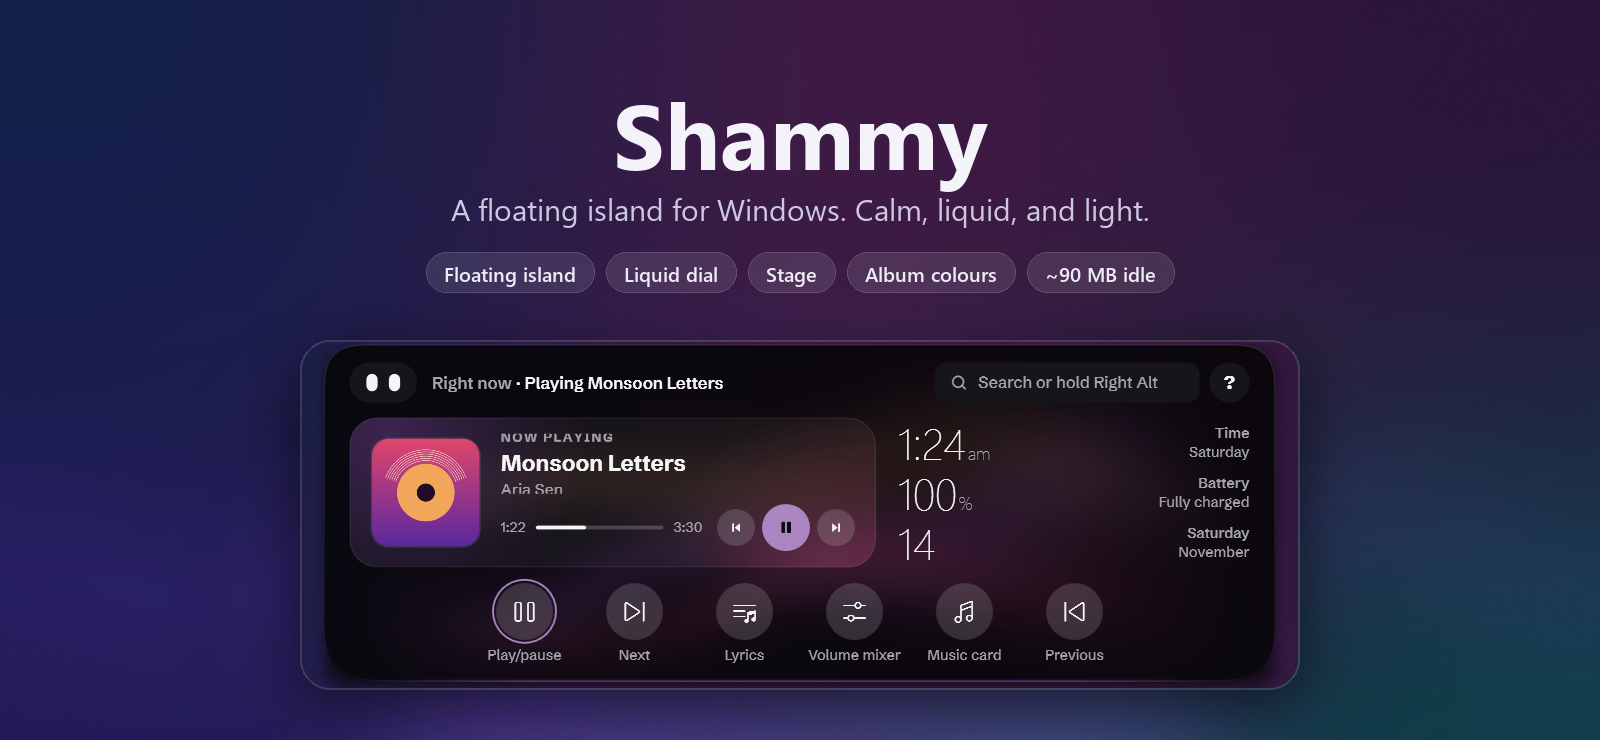
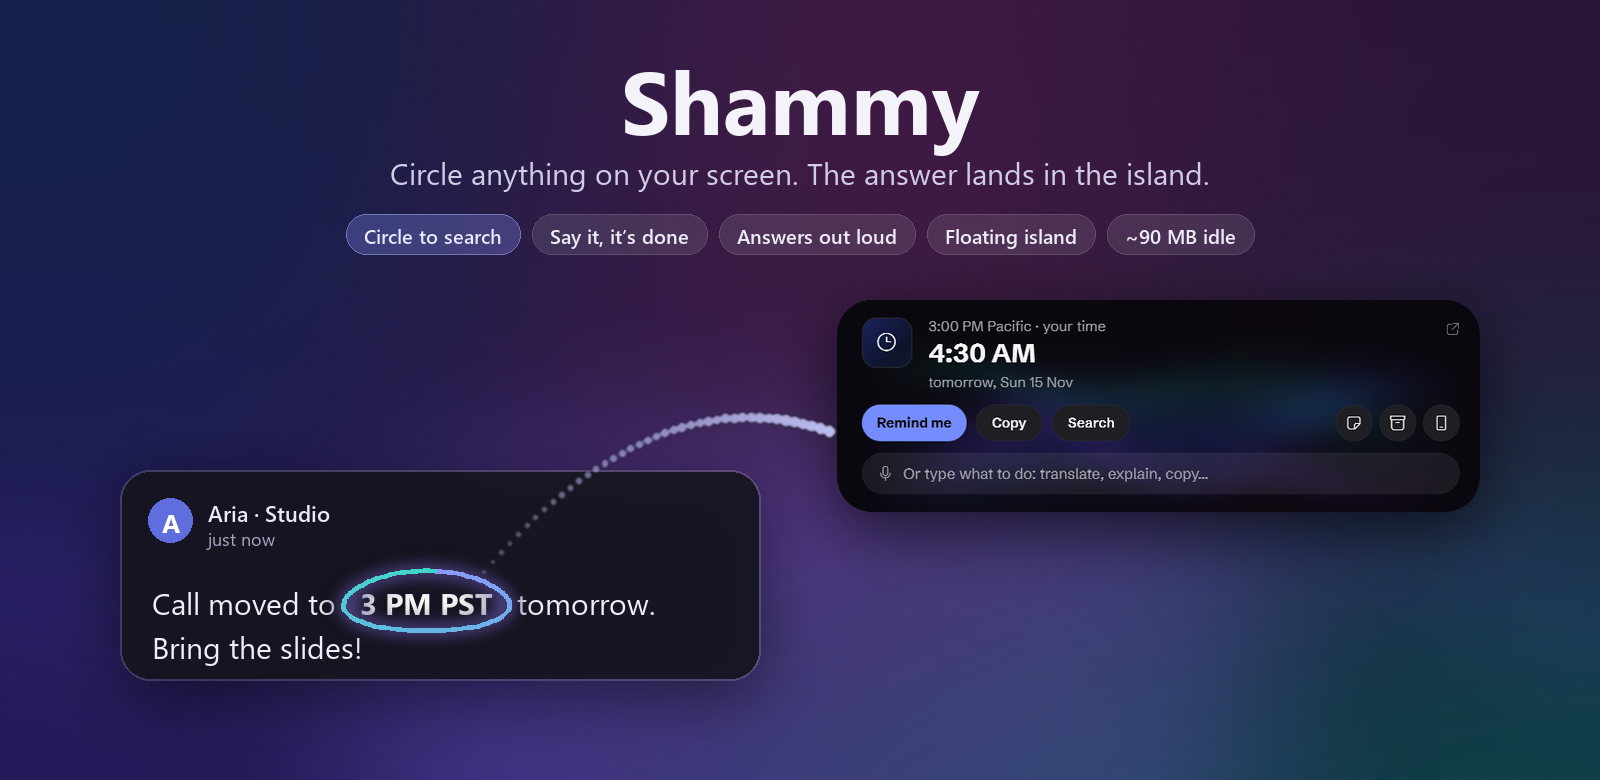
README hero for 1.1: a time circled in a chat message, and the island answering it in your time

diff --git a/README.md b/README.md
@@ -1,5 +1,5 @@
 <p align="center">
-  <img src="docs/images/hero.png" alt="Shammy: a floating island for Windows" width="100%">
+  <img src="docs/images/hero.png" alt="Shammy: circle 3 PM PST in a chat message and the island answers 4:30 AM, your time" width="100%">
 </p>
 
 <p align="center">
